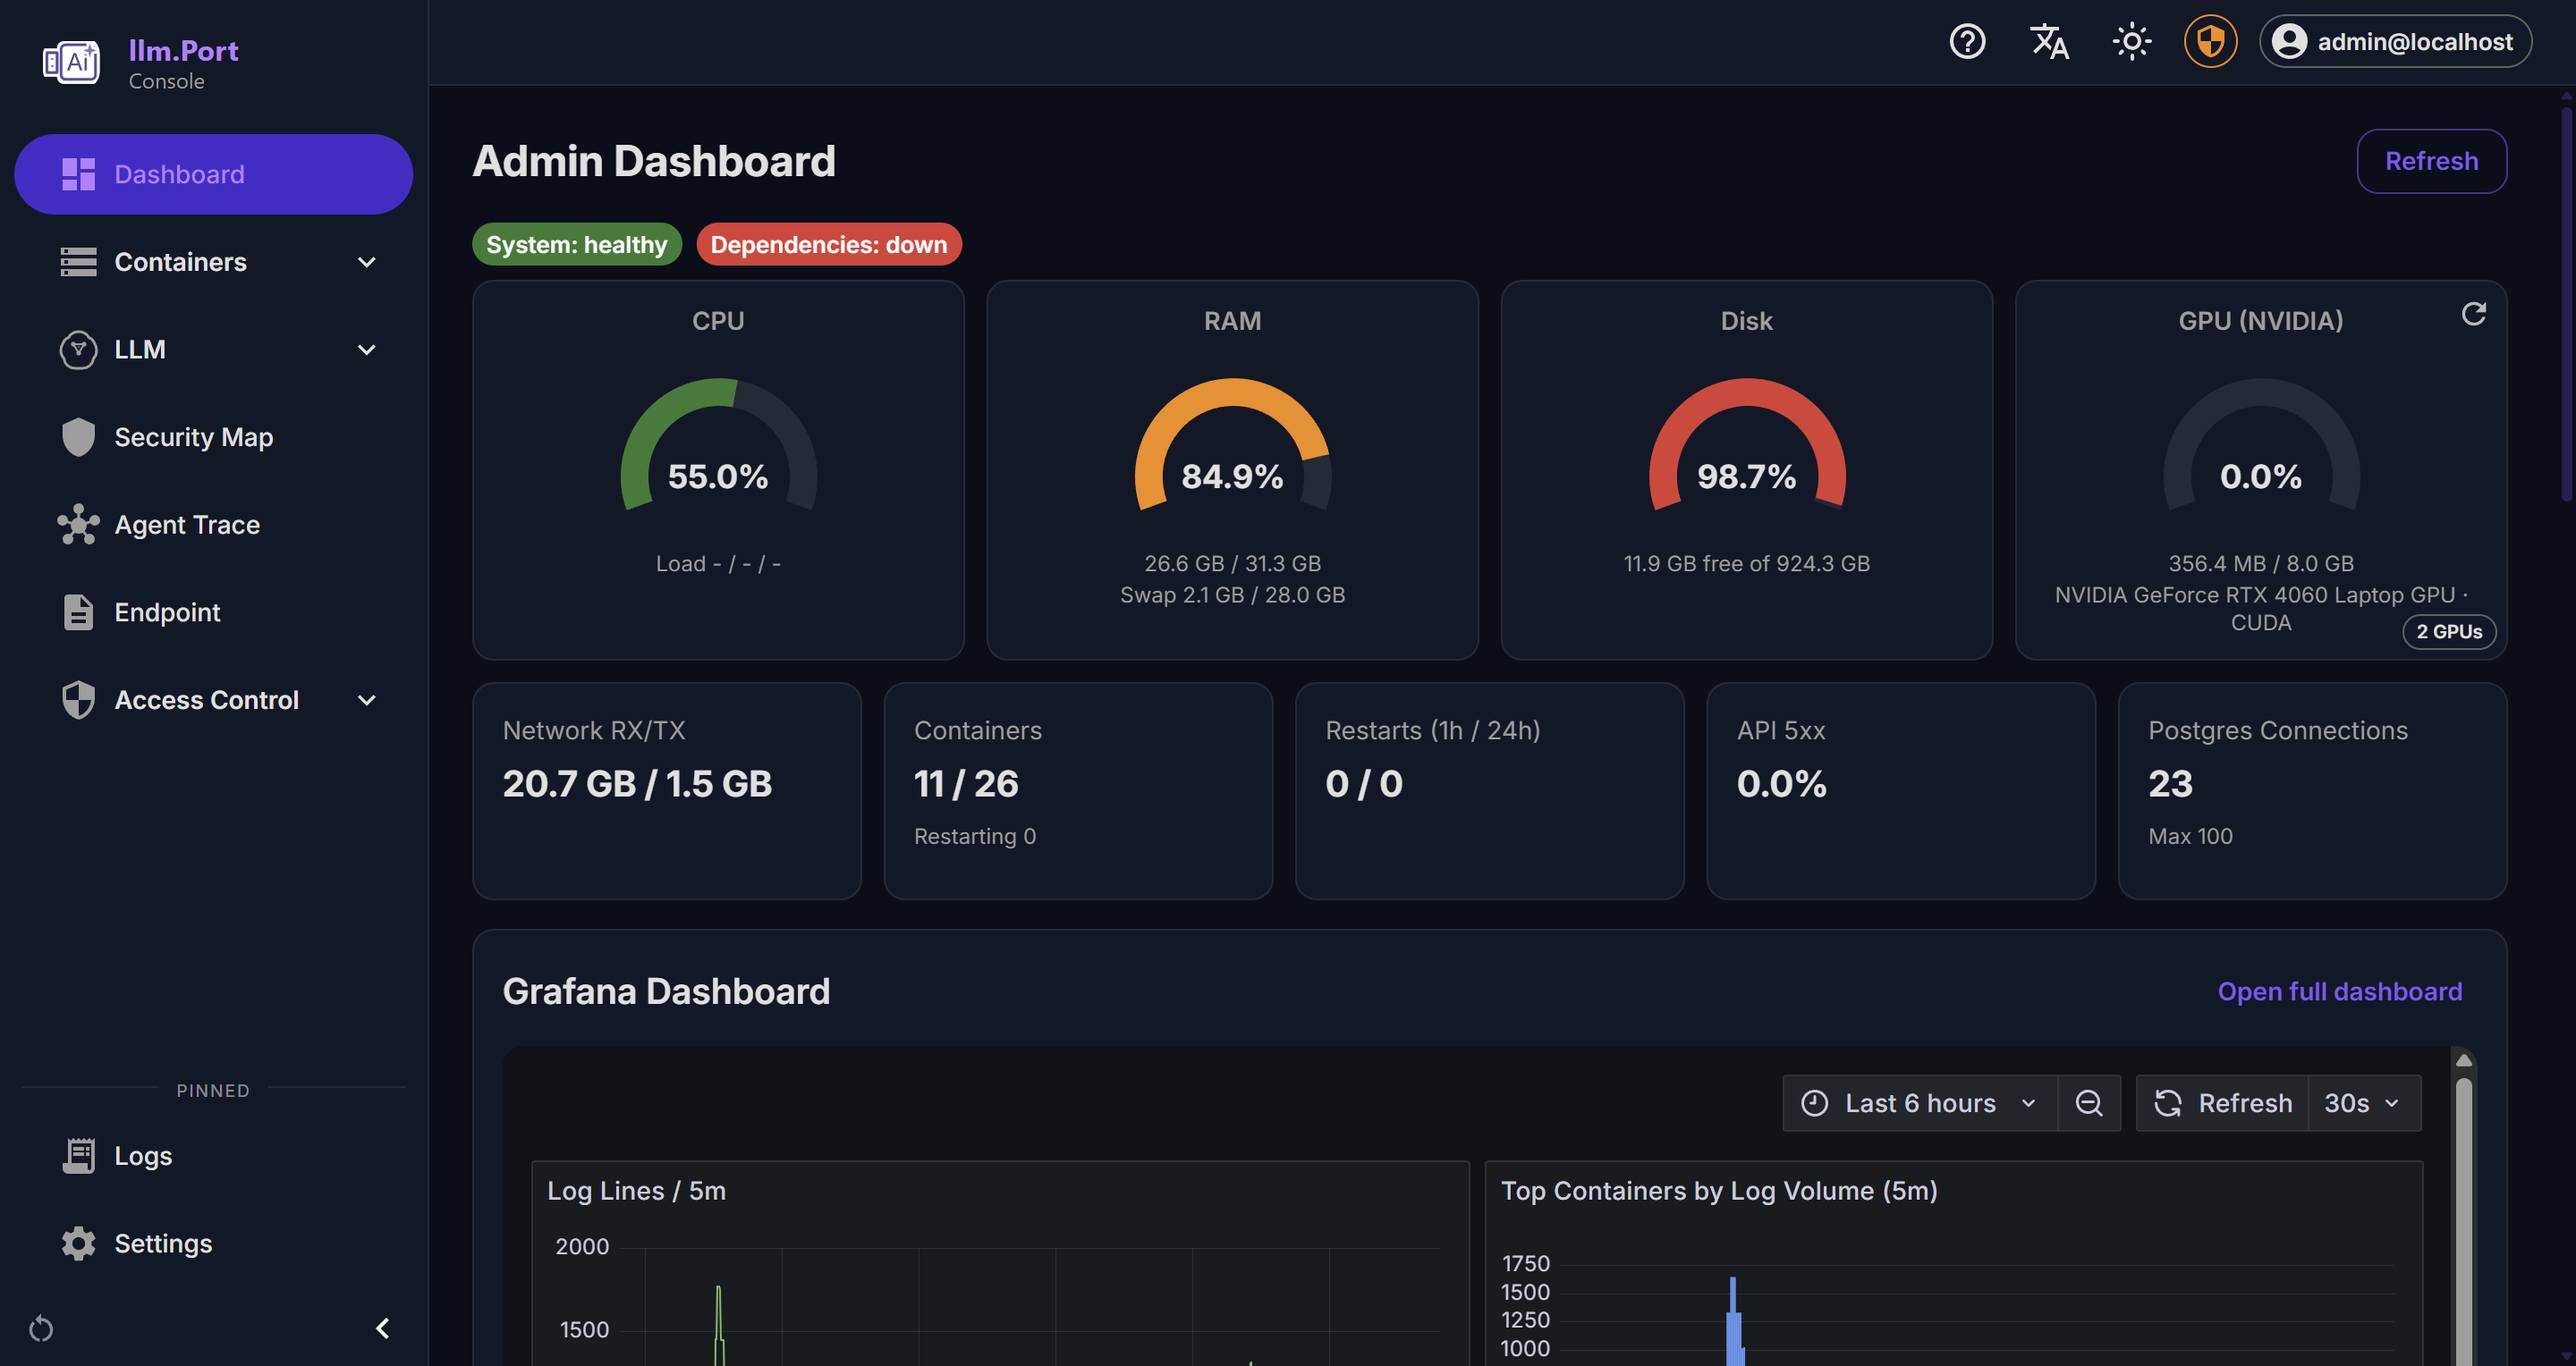
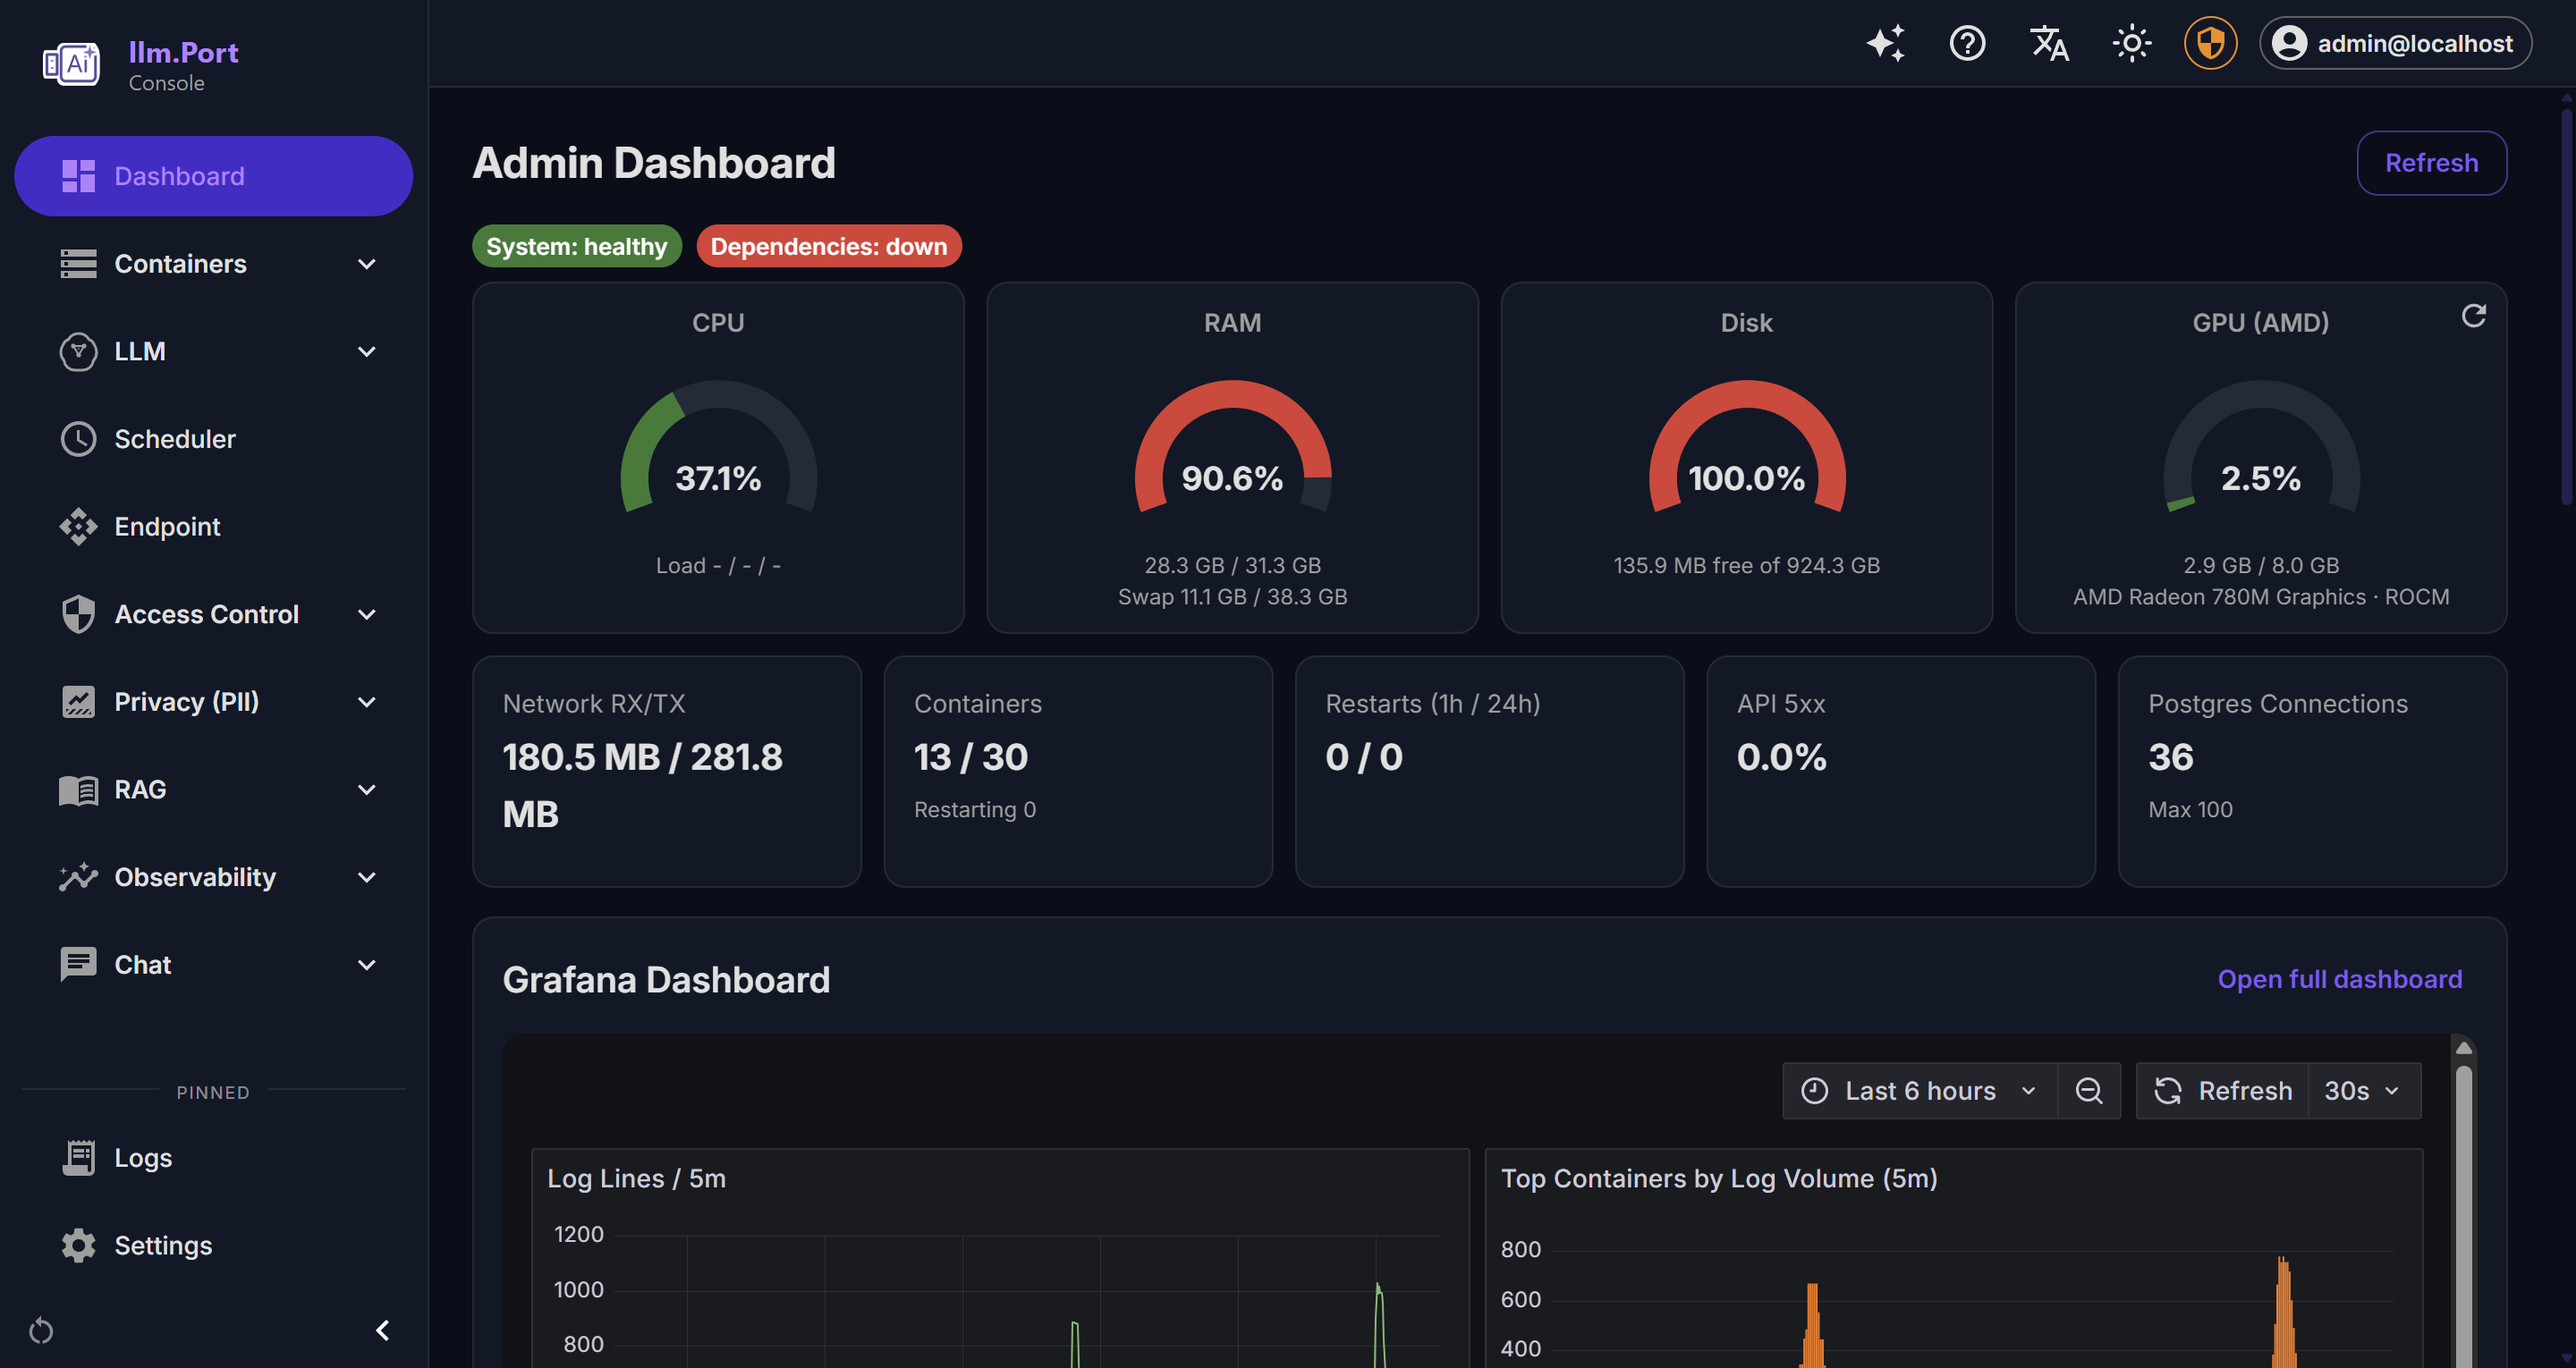
update readme

diff --git a/profile/README.md b/profile/README.md
@@ -23,11 +23,15 @@ It **routes, secures, and observes** traffic across **local LLM runtimes** _and_
 
 <img src="./images/dashboard.png">
 
+<img src="./images/chat.png">
+
 <img src="./images/containers.png">
 
 <img src="./images/llm_providers.png">
 
 <img src="./images/llm_provider_details.png">
+
+<img src="./images/llm_provider_local.png">
 
 <img src="./images/models.png">
 
@@ -37,11 +41,17 @@ It **routes, secures, and observes** traffic across **local LLM runtimes** _and_
 
 <img src="./images/security_overview.png">
 
+<img src="./images/profile.png">
+
 <img src="./images/pii.png">
 
-<img src="./images/settings.png">
+<img src="./images/rag_kb.png">
 
 <img src="./images/rag_collectors.png">
+
+<img src="./images/scheduler.png">
+
+<img src="./images/settings.png">
 
 <img src="./images/api.png">
 
